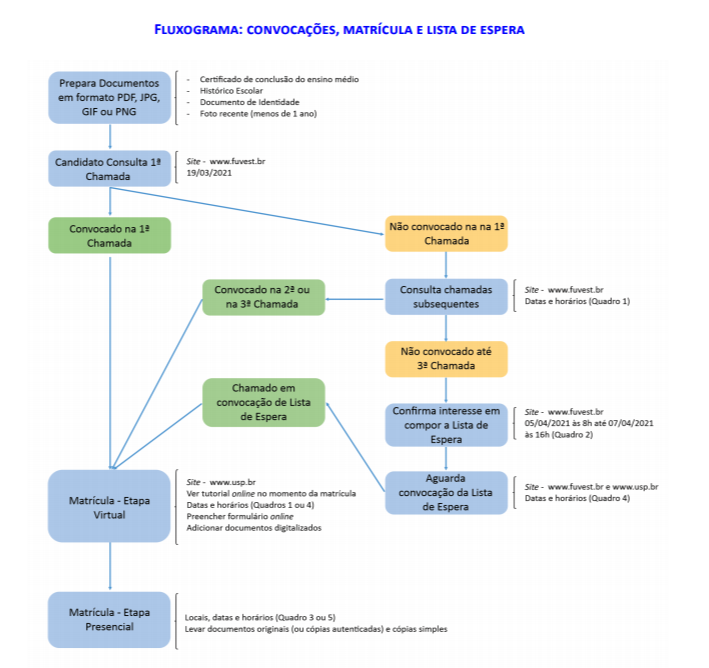
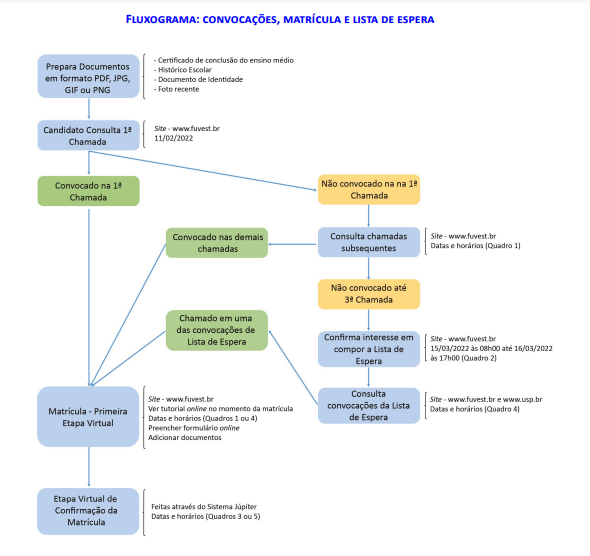
Update '/matricula' contents

diff --git a/src/app/core/matricula/matricula.component.html b/src/app/core/matricula/matricula.component.html
@@ -3,111 +3,81 @@
 <section>
   <a id="flowchart"></a>
   <p>
-    No manual do candidato você encontrará informações detalhadas sobre as matrículas.
-    Destacamos abaixo algumas das mais importantes.
+    No
+    <a
+      target="_blank"
+      rel="noopener noreferrer"
+      href="https://www.fuvest.br/wp-content/uploads/fuvest2022_manual_20210804.pdf"
+      >manual do candidato</a
+    >
+    você encontrará informações detalhadas sobre as matrículas. Destacamos abaixo algumas
+    das mais importantes.
   </p>
 
   <img
     src="/assets/images/matricula/fluxograma.png"
     alt="Fluxograma: Convoações, Matrícula e Lista de Espera"
-    class="d-block mx-auto my-2 w-100 w-lg-50"
+    class="d-block mx-auto my-2"
   />
 </section>
 
 <section>
   <a id="dates"></a>
   <app-title [subtitle]="true"
-    >Listas de Chamadas: Datas e Período da Divulgação e Matrícula (Etapa
+    >Listas de Chamadas: Datas e Período da Divulgação e Matrícula (Primeira Etapa
     Virtual)</app-title
   >
   <br />
 
   <h5>Primeira Chamada</h5>
   <ul>
-    <li>19/03/2021 (sexta-feira) &mdash; Divulgação pela FUVEST</li>
+    <li>11/02/2022 (sexta-feira) &mdash; Divulgação pela FUVEST</li>
     <li>
-      19/03/2021 (sexta-feira), das 8h até 23/03/2021 (terça-feira), às 16h &mdash;
-      Matrícula
+      14/02/2022 (segunda-feira), das 08h00 até 17/02/2022 (quinta-feira), às 16h00
+      &mdash; Matrícula
     </li>
   </ul>
 
   <h5>Segunda Chamada</h5>
   <ul>
-    <li>29/03/2021 (segunda-feira) &mdash; Divulgação pela FUVEST</li>
+    <li>25/02/2022 (sexta-feira) &mdash; Divulgação pela FUVEST</li>
     <li>
-      29/03/2021 (segunda-feira), das 8h até 30/03/2021 (terça-feira), às 16h &mdash;
+      28/02/2022 (segunda-feira), das 08h00 até 01/03/2022 (terça-feira), às 16h00 &mdash;
       Matrícula
     </li>
   </ul>
 
   <h5>Terceira Chamada</h5>
   <ul>
-    <li>05/04/2021 (segunda-feira) &mdash; Divulgação pela FUVEST</li>
+    <li>07/03/2022 (segunda-feira) &mdash; Divulgação pela FUVEST</li>
     <li>
-      05/04/2021 (segunda-feira), das 8h até 06/04/2021 (terça-feira), às 16h &mdash;
+      08/03/2022 (terça-feira), das 08h00 até 09/03/2022 (quarta-feira), às 16h00 &mdash;
       Matrícula
     </li>
   </ul>
 
   <a id="enrollment" name="enrollment"></a>
   <p>
-    <strong>Observação:</strong> Horário de atendimento do Suporte De Grauação: das 8h00
-    às 18h00, de segunda a sexta-feira(excepcionalmente, nos dias 20 e 21/03/2021, também
-    haverá atendimento nesse mesmo horário
+    <strong>Observação:</strong> Horário de atendimento da Central Unificada de Matrículas
+    (página 47): das 08h00 às 18h00, de segunda a sexta-feira.
   </p>
 </section>
 
 <section>
-  <app-title [subtitle]="true">Matrícula - Etapa Presencial (1ª a 3ª chamadas)</app-title>
+  <app-title [subtitle]="true"
+    >Etapa Virtual de Confirmação da Matrícula (1ª a 3ª chamadas)
+  </app-title>
   <p>
-    A matrícula para todos candidatos convocados nas três chamadas regulares ocorrerá nos
-    dias <strong>12, 13 e 14/04/2021</strong> (segunda, terça e quarta-feira),
-    <strong>das 13h00 até as 17h00</strong>.
+    A confirmação da matrícula para todos os candidatos convocados nas três chamadas
+    regulares ocorrerá nos dias 14, 15 e 16/03/2022 (segunda, terça e quarta-feira),
+    <strong>das 08h00 do dia 14/03 até as 16h00 do dia 16/03/2022. </strong>.
     <br />
     <br />
-    <strong>Observação:</strong> O dia e horário específicos de cada curso e turno serão
-    divulgados posteriormente, via e-mail, a todos os ingrassantes.
+    <strong>ATENÇÃO: </strong> Todos os ingressantes na USP deverão confirmar sua
+    matrícula (durante o período definido no calendário) no link encaminhado no e-mail
+    cadastrado no momento da inscrição, sob pena de perda da vaga. Neste ato, o candidato
+    aprovado deverá preencher os formulários eletrônicos de confirmação de matrícula e
+    enviar a documentação exigida, nas datas estabelecidas no calendário, em formato
+    digital (PDF, JPG, PNG, GIF).
   </p>
-</section>
-
-<section>
-  <a id="places"></a>
-  <app-title [subtitle]="true">Local de Matrícula:</app-title>
-  <div class="row justify-content-around mt-3">
-    <div class="col-12 col-md-6">
-      <h5>Anfiteatro de Convenções Jorge Caron</h5>
-      <p>
-        Rua Miguel Petroni, 168-178
-        <br />
-        Universidade de São Paulo
-        <br />
-        Jardim Bandeirantes - CEP: 13566-590
-        <br />
-        Em frente ao E1
-        <br />
-        São Carlos, SP
-      </p>
-    </div>
-
-    <div class="col-12 col-md-6">
-      <h5>Escola de Engenharia de São Carlos</h5>
-      <p>
-        Av. Trabalhador São Carlense, 400
-        <br />
-        Parque Arnold Schimidt - 13566-590
-        <br />
-        São Carlos, SP
-        <br />
-        (16) 3373-9249 ou 3373-9929
-        <br />
-        <a
-          href="mailto:graduação@eesc.usp.br"
-          target="_blank"
-          rel="noopener noreferrer"
-          title="Enviar email"
-          >graduação@eesc.usp.br</a
-        >
-      </p>
-    </div>
-  </div>
 </section>
